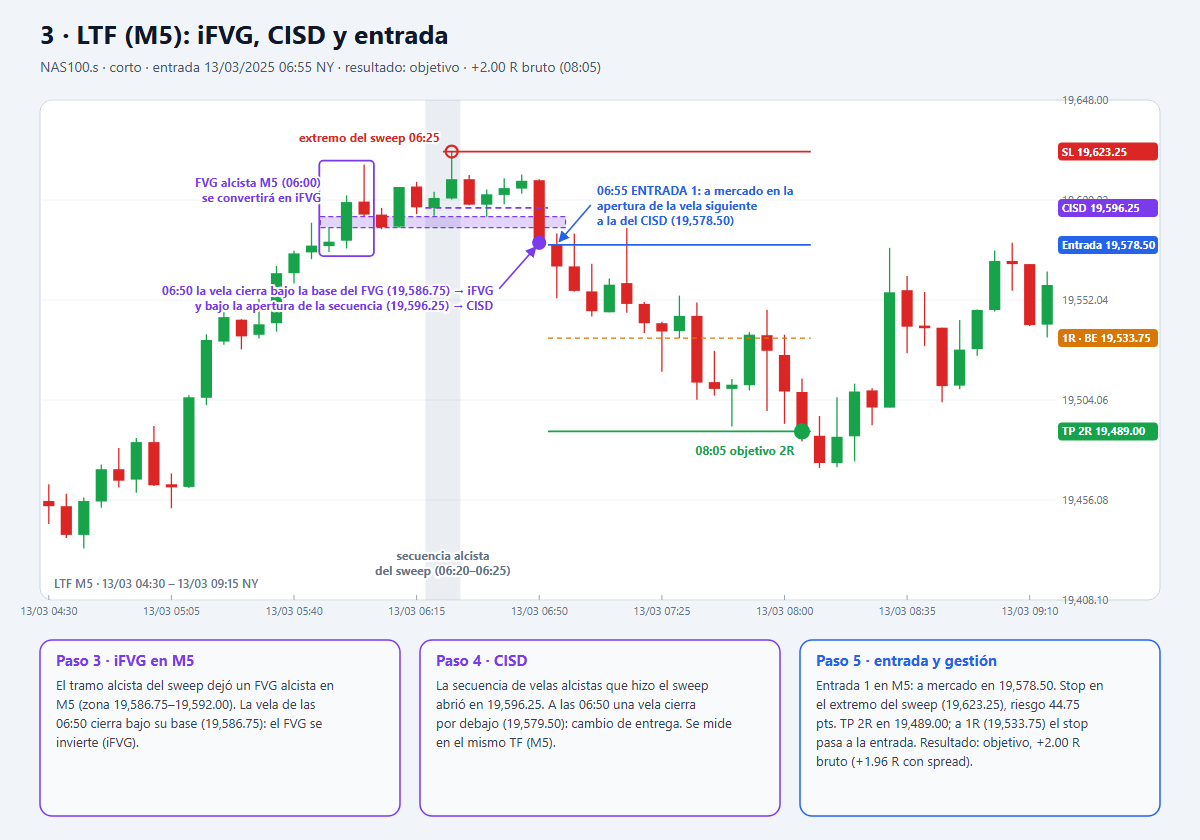
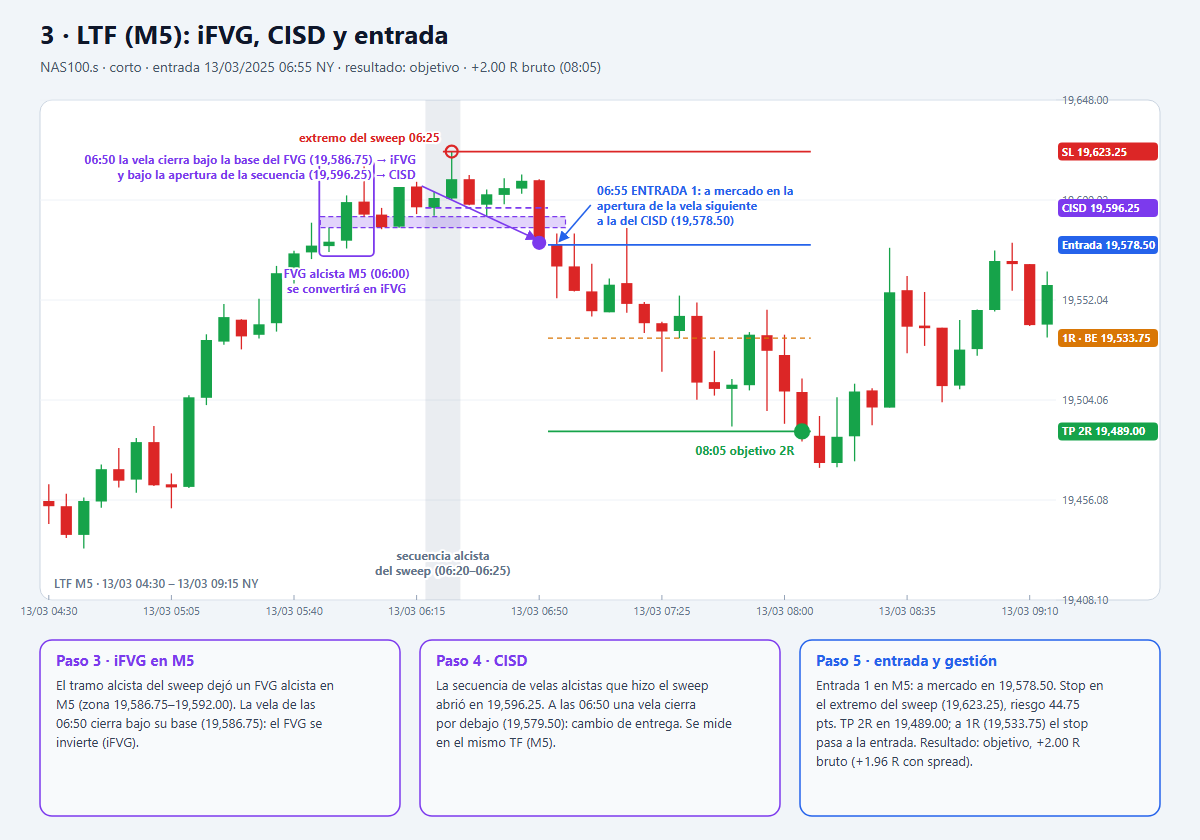
Dibujos del setup ganador más reciente del backtest CRT (NAS100, 05/10/2026) y etiquetas más claras

Changed region(s): [[0.1233, 0.3095, 0.4317, 0.3714], [0.0617, 0.1857, 0.37, 0.2476], [0.4317, 0.2786, 0.4625, 0.3095]]

diff --git a/scripts/dibujar_crt.py b/scripts/dibujar_crt.py
@@ -273,8 +273,11 @@ def main() -> None:
     ch.dot(isw, hx, RED, 7, ring=True)
     ch.text(ch.X(i3 - 2) - 6, box_y - 54 if up else box_y + 70, f"FVG {'bajista' if up else 'alcista'} M{m}: {z_bot:,.2f}–{z_top:,.2f}\n"
             f"vela 3 cerrada {fmt_ny(z[3], '%d/%m %H:%M')}, sin mitigar", "#c2410c", 13, "700")
-    ch.arrow(ch.X(isw) - 56, ch.Y(hx) + (-34 if up else 34), ch.X(isw) - 9, ch.Y(hx) + (-5 if up else 5), RED)
-    ch.text(ch.X(isw) - 62, ch.Y(hx) + (-44 if up else 44), f"El {'máximo' if up else 'mínimo'} del sweep ({fmt_ny(ts[ih], '%H:%M')}, {hx:,.2f})\nentra en el FVG", RED, 13, "700", "end")
+    right = ch.X(isw) < ch.x0 + 0.62 * ch.pw                                              # hay sitio libre a la derecha del extremo
+    d = 1 if right else -1
+    ch.arrow(ch.X(isw) + d * 56, ch.Y(hx) + (-46 if up else 46), ch.X(isw) + d * 9, ch.Y(hx) + (-6 if up else 6), RED)
+    ch.text(ch.X(isw) + d * 62, ch.Y(hx) + (-52 if up else 52), f"El {'máximo' if up else 'mínimo'} del sweep ({fmt_ny(ts[ih], '%H:%M')}, {hx:,.2f})\nentra en el FVG",
+            RED, 13, "700", "start" if right else "end")
     ch.text(ch.x0 + 14, ch.y0 + ch.h - 12, f"MTF M{m} · {fmt_ny(mb['ts'][a], '%d/%m %H:%M')} – {fmt_ny(mb['ts'][b], '%d/%m %H:%M')} NY · franja ámbar: la vela C2 (H3)", MUTED, 12, "500")
     others = [f"M{o[0]} {min(px(o[1]), px(o[2])):,.2f}–{max(px(o[1]), px(o[2])):,.2f}" for o in zones if o[0] != m]
     cards = [("Paso 2 · FVG de MTF tocado (liquidez interna)",
@@ -312,20 +315,23 @@ def main() -> None:
     ch.text(ch.X((sa + se) / 2), ch.y0 + (ch.h - 40 if up else 36), f"secuencia {'alcista' if up else 'bajista'}\ndel sweep ({fmt_ny(ts[sa], '%H:%M')}–{fmt_ny(ts[se], '%H:%M')})", MUTED, 12, "700", "middle")
     ch.dot(ih, hx, RED, 6, ring=True)
     ch.text(ch.X(ih) - 12, ch.Y(hx) + (-10 if up else 22), f"extremo del sweep {fmt_ny(ts[ih], '%H:%M')}", RED, 12, "700", "end")
-    ch.text(ch.X(kf - 2) - 8, ch.Y(max(f_bot, f_top)) - 30 if up else ch.Y(min(f_bot, f_top)) + 44,
-            f"FVG {'alcista' if up else 'bajista'} M5 ({fmt_ny(ts[kf], '%H:%M')})\nse convertirá en iFVG", PURPLE, 12, "700", "end")
+    box_lo, box_hi = float(bars["low"][kf - 2:kf + 1].min()), float(bars["high"][kf - 2:kf + 1].max())
+    ch.text(ch.X(kf - 1), ch.Y(box_lo) + 26 if up else ch.Y(box_hi) - 22,
+            f"FVG {'alcista' if up else 'bajista'} M5 ({fmt_ny(ts[kf], '%H:%M')})\nse convertirá en iFVG", PURPLE, 12, "700", "middle")
     cy = bars["close"][jc]
+    ty = ch.y0 + 64 if up else ch.y0 + ch.h - 90                                        # zona libre sobre (o bajo) las velas
     if mi == jc:
         txt = (f"{fmt_ny(ts[jc], '%H:%M')} la vela cierra {'bajo' if up else 'sobre'} la base del FVG ({base_fvg:,.2f}) → iFVG\n"
                f"y {'bajo' if up else 'sobre'} la apertura de la secuencia ({level:,.2f}) → CISD")
-        ch.arrow(ch.X(jc) - 40, ch.Y(cy) + sgn_y * 46, ch.X(jc) - 4, ch.Y(cy) + sgn_y * 5, PURPLE)
-        ch.text(ch.X(jc) - 46, ch.Y(cy) + sgn_y * 52, txt, PURPLE, 12, "700", "end")
+        ch.arrow(ch.X(ih) - 30, ty + (22 if up else -6), ch.X(jc) - 4, ch.Y(cy) + (-4 if up else 4), PURPLE)
+        ch.text(ch.X(ih) - 36, ty, txt, PURPLE, 12, "700", "end")
     else:
         cm = bars["close"][mi]
-        ch.arrow(ch.X(mi) - 36, ch.Y(cm) + sgn_y * 40, ch.X(mi) - 3, ch.Y(cm) + sgn_y * 5, PURPLE)
-        ch.text(ch.X(mi) - 42, ch.Y(cm) + sgn_y * 46, f"{fmt_ny(ts[mi], '%H:%M')} cierra {'bajo' if up else 'sobre'} la base del FVG: iFVG", PURPLE, 12, "700", "end")
-        ch.arrow(ch.X(jc) - 36, ch.Y(cy) + sgn_y * 78, ch.X(jc) - 3, ch.Y(cy) + sgn_y * 5, PURPLE)
-        ch.text(ch.X(jc) - 42, ch.Y(cy) + sgn_y * 84, f"{fmt_ny(ts[jc], '%H:%M')} CISD: cierra {cy:,.2f}, {'bajo' if up else 'sobre'} {level:,.2f}", PURPLE, 12, "700", "end")
+        ch.arrow(ch.X(ih) - 30, ty + (22 if up else -6), ch.X(mi) - 3, ch.Y(cm) + (-4 if up else 4), PURPLE)
+        ch.text(ch.X(ih) - 36, ty, f"{fmt_ny(ts[mi], '%H:%M')} cierra {'bajo' if up else 'sobre'} la base del FVG: iFVG", PURPLE, 12, "700", "end")
+        ty2 = ty + (46 if up else -46)
+        ch.arrow(ch.X(ih) - 30, ty2 + (22 if up else -6), ch.X(jc) - 3, ch.Y(cy) + (-4 if up else 4), PURPLE)
+        ch.text(ch.X(ih) - 36, ty2, f"{fmt_ny(ts[jc], '%H:%M')} CISD: cierra {cy:,.2f}, {'bajo' if up else 'sobre'} {level:,.2f}", PURPLE, 12, "700", "end")
     ch.dot(jc, cy, PURPLE, 6)
     ch.arrow(ch.X(start) + 34, ch.Y(entry) + sgn_y * -40, ch.X(start) + 3, ch.Y(entry) + sgn_y * -4, BLUE)
     ch.text(ch.X(start) + 40, ch.Y(entry) + sgn_y * -50, f"{fmt_ny(ts[start], '%H:%M')} ENTRADA 1: a mercado en la\napertura de la vela siguiente\na la del CISD ({entry:,.2f})", BLUE, 12, "700")
